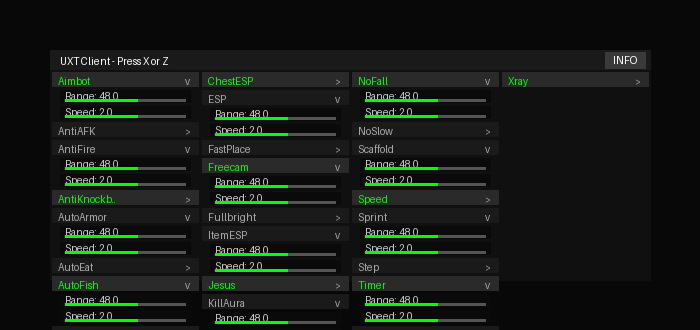
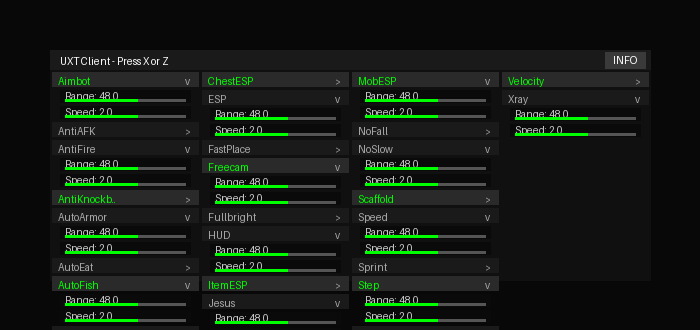
Add HUD overlay (enabled modules, coordinates, FPS) and config persistence for module states and settings

diff --git a/src/main/java/com/uxuxx/uxt/render/HudRenderer.java b/src/main/java/com/uxuxx/uxt/render/HudRenderer.java
@@ -1,0 +1,95 @@
+package com.uxuxx.uxt.render;
+
+import com.mojang.blaze3d.systems.RenderSystem;
+import com.uxuxx.uxt.Module;
+import com.uxuxx.uxt.UXTClient;
+import com.uxuxx.uxt.modules.HudModule;
+import net.fabricmc.fabric.api.client.rendering.v1.HudRenderCallback;
+import net.minecraft.client.MinecraftClient;
+import net.minecraft.client.render.BufferBuilder;
+import net.minecraft.client.render.Tessellator;
+import net.minecraft.client.render.VertexFormats;
+import net.minecraft.client.util.math.MatrixStack;
+import net.minecraft.util.math.Matrix4f;
+import org.lwjgl.opengl.GL11;
+
+public class HudRenderer {
+
+    private static int frames = 0;
+    private static int fps = 0;
+    private static long lastFpsUpdate = 0;
+
+    public static void register() {
+        HudRenderCallback.EVENT.register(HudRenderer::render);
+    }
+
+    private static void render(MatrixStack matrices, float tickDelta) {
+        updateFps();
+
+        MinecraftClient client = MinecraftClient.getInstance();
+        if (!HudModule.enabled) return;
+        if (UXTClient.moduleManager == null) return;
+        if (client.player == null || client.world == null) return;
+        if (client.options.hudHidden) return;
+
+        drawText(client, matrices, "UXT Client", 4, 4, 0x00FF00);
+        drawText(client, matrices, "FPS: " + fps, 4, 16, 0xFFFFFF);
+        drawText(client, matrices, "XYZ: "
+            + (int) Math.floor(client.player.getX()) + " "
+            + (int) Math.floor(client.player.getY()) + " "
+            + (int) Math.floor(client.player.getZ()), 4, 28, 0xFFFFFF);
+
+        int screenWidth = client.getWindow().getScaledWidth();
+        int y = 4;
+        for (Module module : UXTClient.moduleManager.getModules()) {
+            if (!module.isEnabled() || module instanceof HudModule) continue;
+            String name = module.getName();
+            int width = client.textRenderer.getWidth(name);
+            int right = screenWidth - 4;
+            int left = right - width - 8;
+            fill(matrices, left, y - 1, right, y + 9, 0x80101010);
+            fill(matrices, left, y - 1, left + 2, y + 9, 0xFF00FF00);
+            client.textRenderer.drawWithShadow(matrices, name, left + 5, y, 0xFFFFFF);
+            y += 11;
+        }
+    }
+
+    private static void updateFps() {
+        frames++;
+        long now = System.currentTimeMillis();
+        if (now - lastFpsUpdate >= 1000) {
+            fps = frames;
+            frames = 0;
+            lastFpsUpdate = now;
+        }
+    }
+
+    private static void drawText(MinecraftClient client, MatrixStack matrices, String text, int x, int y, int color) {
+        int width = client.textRenderer.getWidth(text);
+        fill(matrices, x - 2, y - 1, x + width + 2, y + 9, 0x80101010);
+        client.textRenderer.drawWithShadow(matrices, text, x, y, color);
+    }
+
+    private static void fill(MatrixStack matrices, float x1, float y1, float x2, float y2, int color) {
+        float alpha = (color >> 24 & 255) / 255.0f;
+        float red = (color >> 16 & 255) / 255.0f;
+        float green = (color >> 8 & 255) / 255.0f;
+        float blue = (color & 255) / 255.0f;
+
+        Matrix4f model = matrices.peek().getModel();
+        BufferBuilder buffer = Tessellator.getInstance().getBuffer();
+
+        RenderSystem.enableBlend();
+        RenderSystem.defaultBlendFunc();
+        RenderSystem.disableTexture();
+
+        buffer.begin(GL11.GL_QUADS, VertexFormats.POSITION_COLOR);
+        buffer.vertex(model, x1, y2, 0.0f).color(red, green, blue, alpha).next();
+        buffer.vertex(model, x2, y2, 0.0f).color(red, green, blue, alpha).next();
+        buffer.vertex(model, x2, y1, 0.0f).color(red, green, blue, alpha).next();
+        buffer.vertex(model, x1, y1, 0.0f).color(red, green, blue, alpha).next();
+        Tessellator.getInstance().draw();
+
+        RenderSystem.enableTexture();
+    }
+}

diff --git a/src/main/java/com/uxuxx/uxt/ConfigManager.java b/src/main/java/com/uxuxx/uxt/ConfigManager.java
@@ -1,0 +1,96 @@
+package com.uxuxx.uxt;
+
+import net.fabricmc.loader.api.FabricLoader;
+
+import java.io.IOException;
+import java.nio.charset.StandardCharsets;
+import java.nio.file.Files;
+import java.nio.file.Path;
+import java.util.ArrayList;
+import java.util.List;
+
+public class ConfigManager {
+
+    private static final Path CONFIG_PATH = FabricLoader.getInstance().getConfigDir().resolve("uxt-client.cfg");
+    private static boolean loading = false;
+    private static boolean dirty = false;
+    private static long lastSave = 0;
+
+    public static void markDirty() {
+        if (!loading) {
+            dirty = true;
+        }
+    }
+
+    public static void tick() {
+        if (dirty && System.currentTimeMillis() - lastSave >= 1000) {
+            save();
+        }
+    }
+
+    public static void save() {
+        if (UXTClient.moduleManager == null) return;
+
+        List<String> lines = new ArrayList<>();
+        for (Module module : UXTClient.moduleManager.getModules()) {
+            lines.add("m|" + module.getName() + "|" + module.isEnabled());
+            for (Module.Setting setting : module.getSettings()) {
+                lines.add("s|" + module.getName() + "|" + setting.getName() + "|" + setting.getValue());
+            }
+        }
+
+        try {
+            Files.createDirectories(CONFIG_PATH.getParent());
+            Files.write(CONFIG_PATH, lines, StandardCharsets.UTF_8);
+            dirty = false;
+            lastSave = System.currentTimeMillis();
+        } catch (IOException e) {
+        }
+    }
+
+    public static void load() {
+        loading = true;
+        try {
+            if (!Files.exists(CONFIG_PATH)) return;
+            for (String line : Files.readAllLines(CONFIG_PATH, StandardCharsets.UTF_8)) {
+                applyLine(line);
+            }
+        } catch (IOException e) {
+        } finally {
+            loading = false;
+        }
+    }
+
+    private static void applyLine(String line) {
+        String[] parts = line.split("\\|", -1);
+        if (parts.length < 3) return;
+
+        if (parts[0].equals("m")) {
+            Module module = findModule(parts[1]);
+            if (module == null) return;
+            boolean target = Boolean.parseBoolean(parts[2]);
+            if (module.isEnabled() != target) {
+                module.toggle();
+            }
+        } else if (parts[0].equals("s") && parts.length >= 4) {
+            Module module = findModule(parts[1]);
+            if (module == null) return;
+            for (Module.Setting setting : module.getSettings()) {
+                if (!setting.getName().equals(parts[2])) continue;
+                try {
+                    setting.setValue(Double.parseDouble(parts[3]));
+                } catch (NumberFormatException ignored) {
+                }
+                return;
+            }
+        }
+    }
+
+    private static Module findModule(String name) {
+        if (UXTClient.moduleManager == null) return null;
+        for (Module module : UXTClient.moduleManager.getModules()) {
+            if (module.getName().equals(name)) return module;
+        }
+        return null;
+    }
+}

diff --git a/src/main/java/com/uxuxx/uxt/UXTClient.java b/src/main/java/com/uxuxx/uxt/UXTClient.java
@@ -2,6 +2,7 @@ package com.uxuxx.uxt;
 
 import com.uxuxx.uxt.gui.ClickGUI;
 import com.uxuxx.uxt.render.ESPRenderer;
+import com.uxuxx.uxt.render.HudRenderer;
 import net.fabricmc.api.ClientModInitializer;
 import net.fabricmc.fabric.api.client.event.lifecycle.v1.ClientLifecycleEvents;
 import net.fabricmc.fabric.api.client.event.lifecycle.v1.ClientTickEvents;
@@ -18,6 +19,7 @@ public class UXTClient implements ClientModInitializer {
     private static KeyBinding guiKeyX;
     private static KeyBinding guiKeyZ;
     private static boolean gammaChecked = false;
+    private static boolean configLoaded = false;
 
     @Override
     public void onInitializeClient() {
@@ -25,6 +27,7 @@ public class UXTClient implements ClientModInitializer {
         clickGUI = new ClickGUI();
 
         ESPRenderer.register();
+        HudRenderer.register();
 
         guiKeyX = KeyBindingHelper.registerKeyBinding(new KeyBinding(
             "Open GUI (X)",
@@ -48,6 +51,12 @@ public class UXTClient implements ClientModInitializer {
                 }
             }
 
+            if (!configLoaded) {
+                configLoaded = true;
+                ConfigManager.load();
+            }
+
+            ConfigManager.tick();
             moduleManager.onTick(client);
 
             while (guiKeyX.wasPressed() || guiKeyZ.wasPressed()) {
@@ -56,6 +65,7 @@ public class UXTClient implements ClientModInitializer {
         });
 
         ClientLifecycleEvents.CLIENT_STOPPING.register(client -> {
+            ConfigManager.save();
             for (Module module : moduleManager.getModules()) {
                 module.forceDisable();
             }

diff --git a/src/main/java/com/uxuxx/uxt/gui/ClickGUI.java b/src/main/java/com/uxuxx/uxt/gui/ClickGUI.java
@@ -82,7 +82,7 @@ public class ClickGUI extends Screen {
             // Info text
             drawCenteredText(matrices, textRenderer, "UXT Client Info", infoPanelX + infoPanelWidth / 2, infoPanelY + 6, 0x00FF00);
             textRenderer.draw(matrices, "Author: uxuxx", infoPanelX + 20, infoPanelY + 35, 0xFFFFFF);
-            textRenderer.draw(matrices, "Version: 1.0.6", infoPanelX + 20, infoPanelY + 50, 0xFFFFFF);
+            textRenderer.draw(matrices, "Version: 1.0.7", infoPanelX + 20, infoPanelY + 50, 0xFFFFFF);
             textRenderer.draw(matrices, "Minecraft: 1.16.5 (Fabric)", infoPanelX + 20, infoPanelY + 65, 0xFFFFFF);
             textRenderer.draw(matrices, "Modules: " + modules.size(), infoPanelX + 20, infoPanelY + 80, 0xFFFFFF);
             

diff --git a/src/main/java/com/uxuxx/uxt/Module.java b/src/main/java/com/uxuxx/uxt/Module.java
@@ -24,6 +24,7 @@ public abstract class Module {
 
     public void toggle() {
         enabled = !enabled;
+        ConfigManager.markDirty();
         if (enabled) {
             onEnable();
         } else {
@@ -69,6 +70,7 @@ public abstract class Module {
 
         public void setValue(double value) {
             this.value = Math.max(min, Math.min(max, value));
+            ConfigManager.markDirty();
         }
 
         public void increment() {

diff --git a/src/main/java/com/uxuxx/uxt/modules/HudModule.java b/src/main/java/com/uxuxx/uxt/modules/HudModule.java
@@ -1,0 +1,22 @@
+package com.uxuxx.uxt.modules;
+
+import com.uxuxx.uxt.Module;
+
+public class HudModule extends Module {
+
+    public static boolean enabled = false;
+
+    public HudModule() {
+        super("HUD");
+    }
+
+    @Override
+    public void onEnable() {
+        enabled = true;
+    }
+
+    @Override
+    public void onDisable() {
+        enabled = false;
+    }
+}

diff --git a/src/main/java/com/uxuxx/uxt/ModuleManager.java b/src/main/java/com/uxuxx/uxt/ModuleManager.java
@@ -41,6 +41,7 @@ public class ModuleManager {
         modules.add(new ChestESPModule());
         modules.add(new ItemESPModule());
         modules.add(new MobESPModule());
+        modules.add(new HudModule());
 
         modules.add(new TimerModule());
 

diff --git a/README.md b/README.md
@@ -59,6 +59,7 @@
 ## Misc
 
 - **Timer** - Change game speed
+- **HUD** - Show enabled modules, coordinates and FPS
 
 ## Controls
 
@@ -66,6 +67,10 @@
 - Single click - Toggle module
 - Double click - Open settings
 - INFO button - View info
+
+## Config
+
+Module states and settings are saved automatically to `config/uxt-client.cfg` and restored on the next launch.
 
 ## Installation
 
